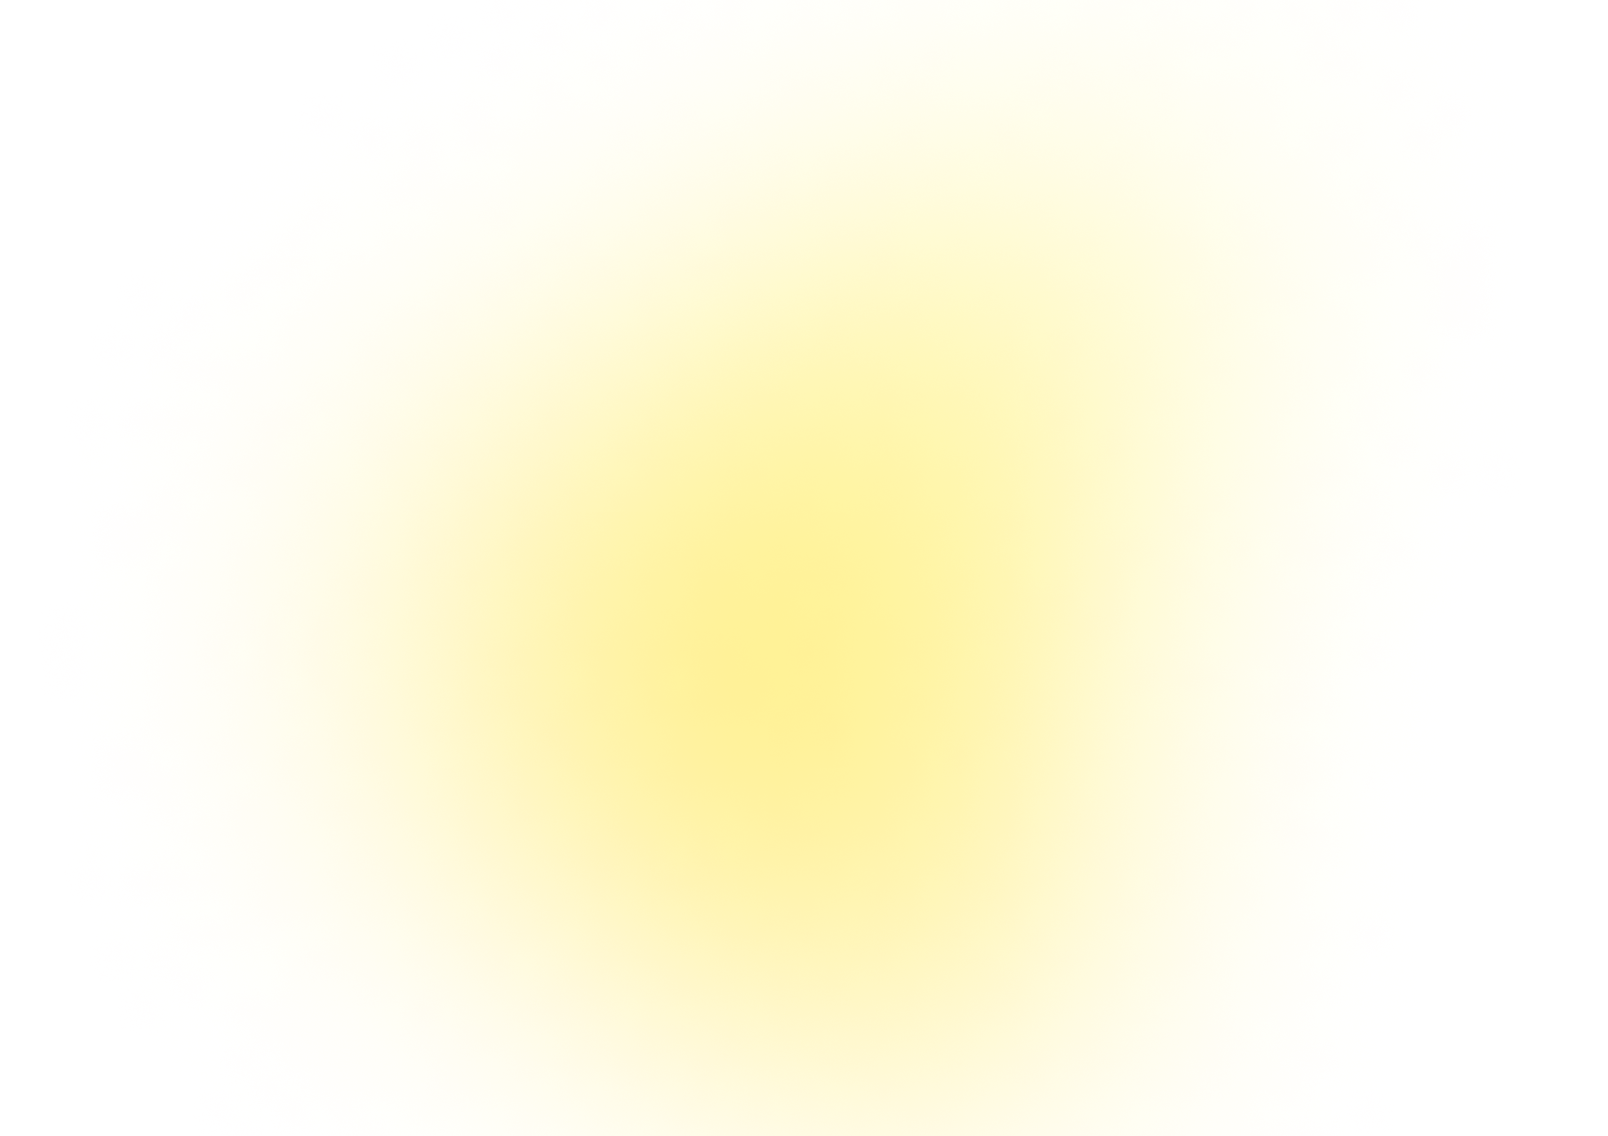
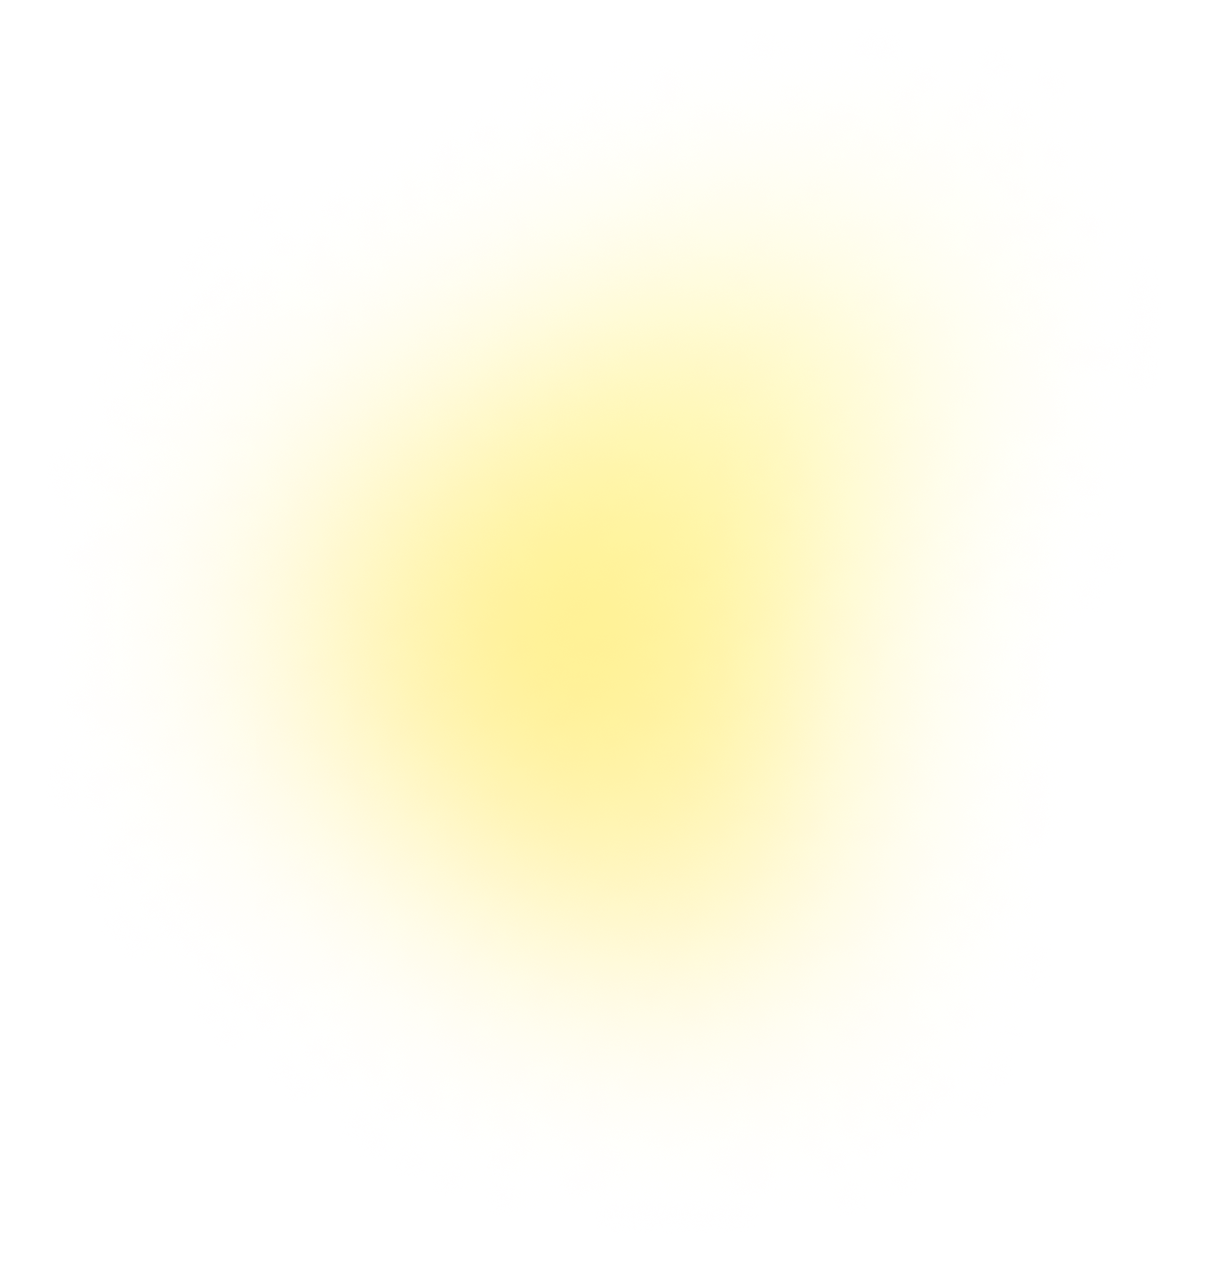
changes

Changed region(s): [[0.2454, 0.6162, 0.7056, 1.0]]

diff --git a/src/pages/home/components/home-workers/home-worker/HomeWorker.module.css b/src/pages/home/components/home-workers/home-worker/HomeWorker.module.css
@@ -35,9 +35,18 @@
 }
 .home__worker_banner {
   width: 50%;
+  position: relative;
+}
+.home__worker_mask {
+  width: 140%;
+  height: 100%;
+  top: 60px;
+  left: -140px;
+  z-index: -1;
+  position: absolute;
   background-image: url("../../../../../../public/images/mask.png");
   background-repeat: no-repeat;
-  background-size: cover;
+  background-size: contain;
   background-position: center;
 }
 .home__worker_image {

diff --git a/src/pages/home/components/home-workers/home-worker/HomeWorker.tsx b/src/pages/home/components/home-workers/home-worker/HomeWorker.tsx
@@ -25,6 +25,7 @@ const HomeWorker: React.FC<WorkerProps> = ({ worker }) => {
               alt="worker banner"
               className={styles.home__worker_image}
             />
+            <div className={styles.home__worker_mask}></div>
           </div>
           <div className={styles.home__worker_info}>
             <div className={styles.home__info_header}>
